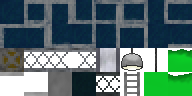
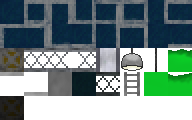
Added spritesheet data for new tile

diff --git a/source/platforms.py b/source/platforms.py
@@ -34,6 +34,7 @@ VENT_TOP = (24, 92, 24, 4)
 VENT = (48, 72, 24, 24)
 BACKGROUND = (72, 72, 24, 24)
 BACKGROUND_GIRDER = (96, 72, 24, 24)
+BACKGROUND_CRATE = (0, 96, 24, 24)
 
 platforms = (
     GROUND1, GROUND2, GROUND3, GROUND4, GROUND5,
@@ -41,7 +42,8 @@ platforms = (
     GROUND11, GROUND12, GROUND13, GROUND14, GROUND15,
     GROUND16, CRATE, GIRDER1, GIRDER2, GIRDER3,
     LAMP, CHAIN, ACID_TOP, ACID, LADDER, VENT_TOP,
-    VENT_BOTTOM, VENT, BACKGROUND, BACKGROUND_GIRDER
+    VENT_BOTTOM, VENT, BACKGROUND, BACKGROUND_GIRDER,
+    BACKGROUND_CRATE
 )
 
 
